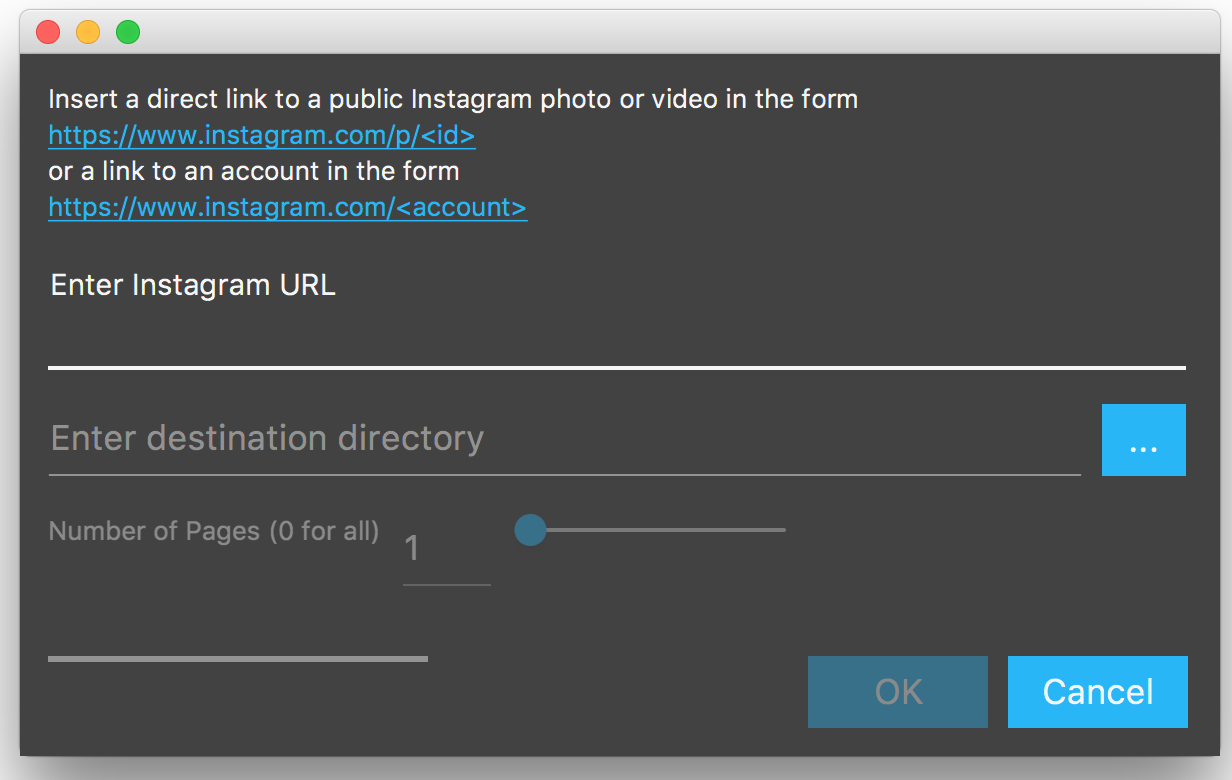
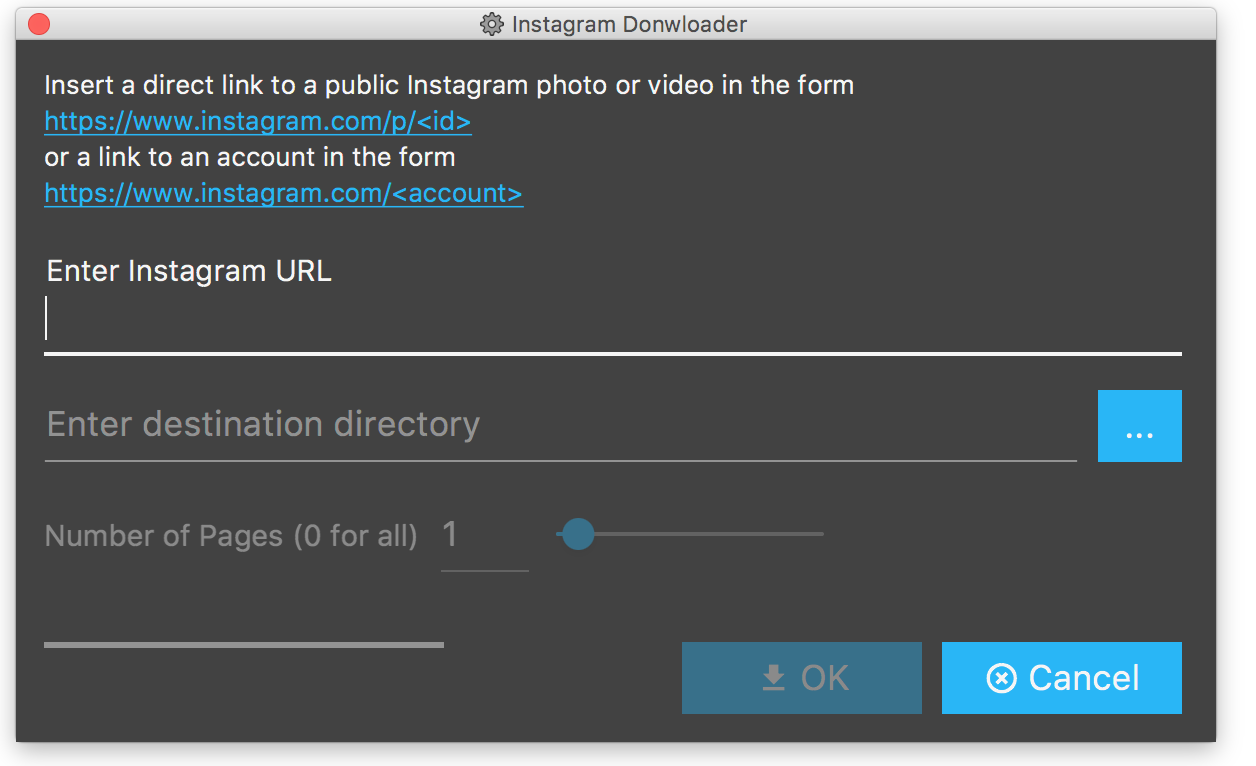
DMG creation
- Icon for App
- JavaDoc
- Switched JavaPlugin

diff --git a/readme.md b/readme.md
@@ -8,7 +8,7 @@ The following URI formats are supported:
   Downloads n pages from this account (12 media files per page)
 
 The instagram filenames are kept, a file is never overridden. So it is possible to
-update an account by simply downloading it again.
+fetch only the new files of an account by simply downloading it again.
 
 Following a screenshot of the application:
 
@@ -18,3 +18,4 @@ Instagram turned off the pagination support of the prior used API.
 So I changed the API as recommended in 
 [Instagram ?__a=1&max_id=<end_cursor> isn't working for public user feeds](https://stackoverflow.com/questions/49265013/instagram-a-1max-id-end-cursor-isnt-working-for-public-user-feeds).
 
+Icon taken from [IconArchive]()http://www.iconarchive.com/show/papirus-apps-icons-by-papirus-team/instagram-icon.html)
